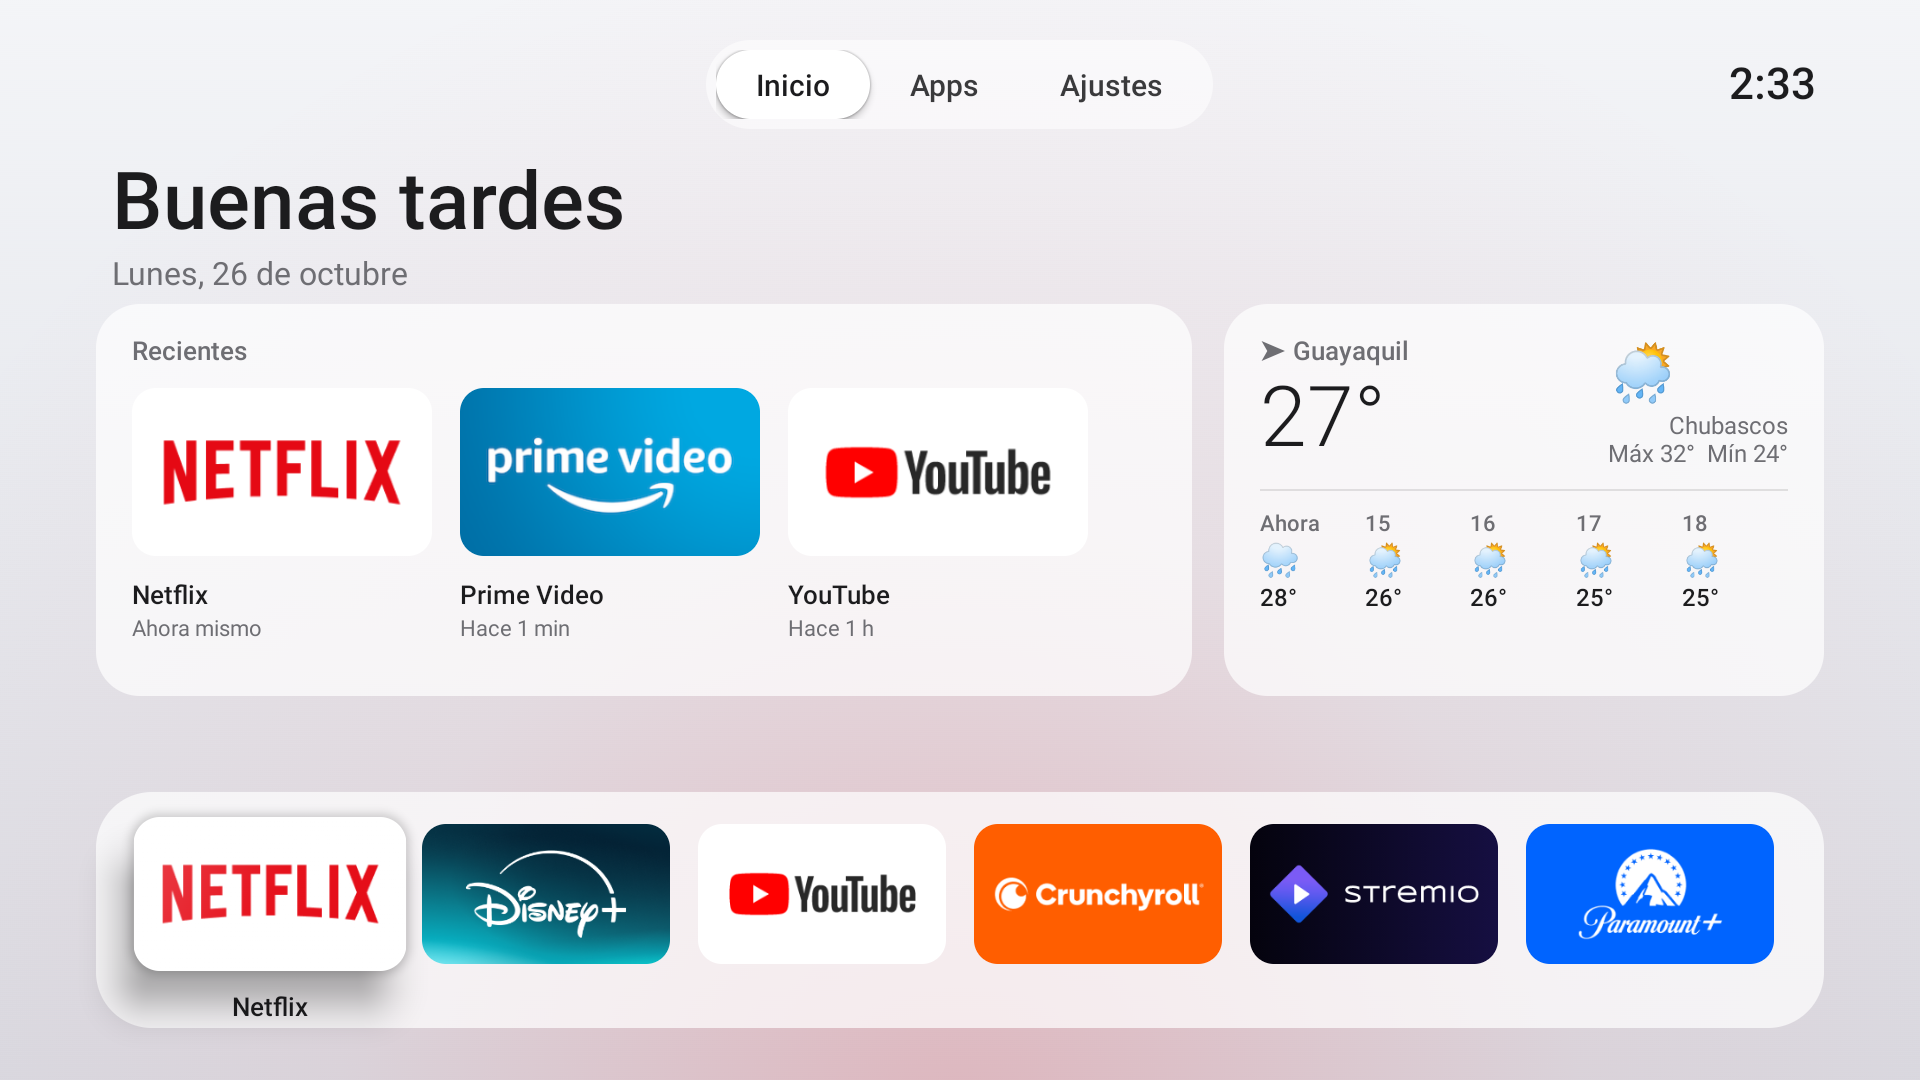
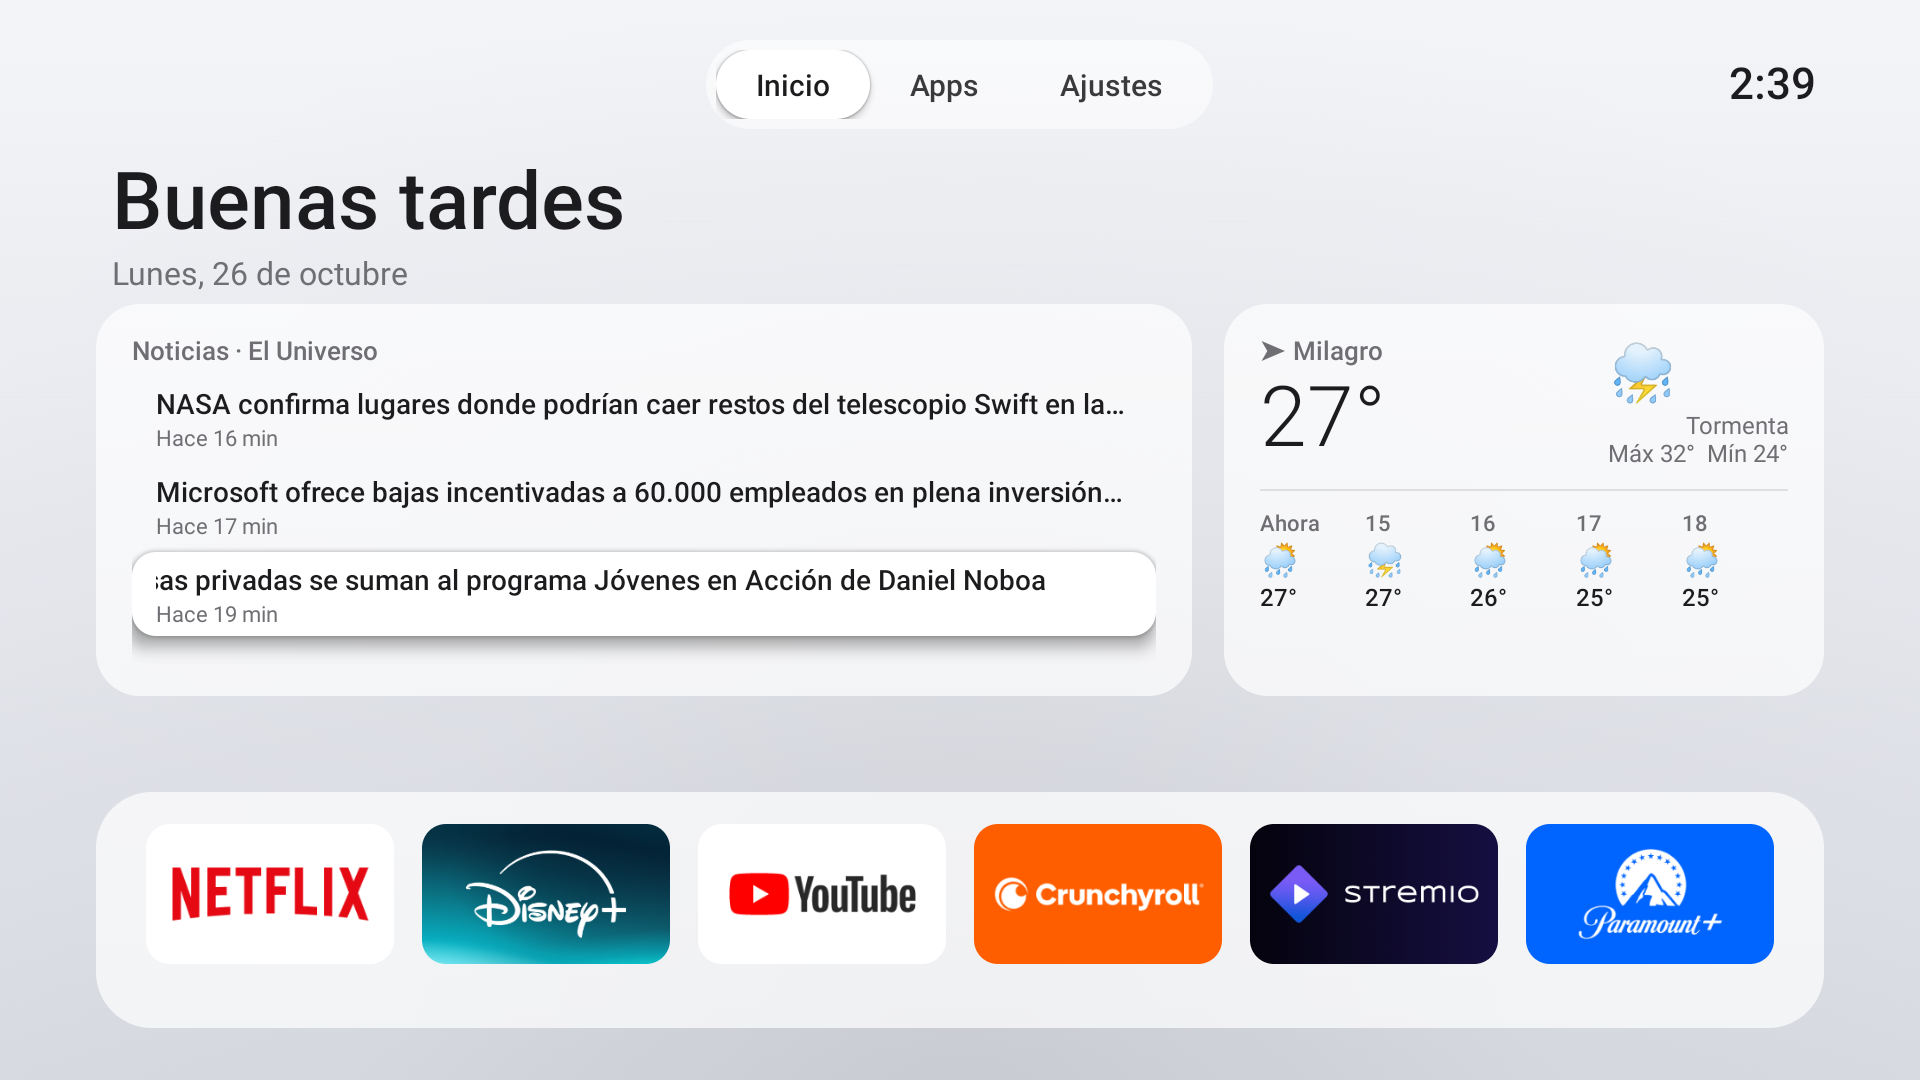
feat: tarjeta de noticias (El Universo) y clima de Milagro, v2.1
- Noticias: 3 titulares del RSS de El Universo, solo texto, lectura en streaming
  que corta la descarga; marquee con foco y OK abre la nota en Silk.
- Ajustes: elegir tarjeta de noticias o de apps recientes.
- Clima por defecto en Milagro para America/Guayaquil.

diff --git a/launcher/src/com/josue/atvhome/HomeActivity.java b/launcher/src/com/josue/atvhome/HomeActivity.java
@@ -1,4 +1,4 @@
-package com.josue.atvhome;
+package com.josue.atvhome;
 
 import android.animation.ArgbEvaluator;
 import android.animation.ValueAnimator;
@@ -104,8 +104,11 @@ public class HomeActivity extends Activity {
     private final View[] pages = new View[3];
     private int page = PAGE_HOME;
 
-    private TextView clock, greeting, date, wifiRow, themeRow, hiddenRow, recentEmpty;
-    private LinearLayout dock, recentRow, appsGrid, settingsList;
+    private TextView clock, greeting, date, wifiRow, themeRow, hiddenRow, recentEmpty, cardTitle;
+    private LinearLayout dock, recentRow, newsList, appsGrid, settingsList;
+    /** La tarjeta grande muestra noticias (por defecto) o apps recientes. */
+    private boolean newsMode;
+    private long newsAt;
     private ScrollView appsScroll;
     // Tarjeta de clima
     private TextView wCity, wIcon, wTemp, wDesc;
@@ -128,6 +131,7 @@ public class HomeActivity extends Activity {
         screenW = getResources().getDisplayMetrics().widthPixels;
         prefs = getSharedPreferences("atv", MODE_PRIVATE);
         pal = new Palette(!"dark".equals(prefs.getString("theme", "light")));
+        newsMode = !"recents".equals(prefs.getString("card", "news"));
         setContentView(buildChrome());
 
         IntentFilter pf = new IntentFilter();
@@ -163,7 +167,8 @@ public class HomeActivity extends Activity {
         updateClock();
         updateWifi();
         refreshWeather();
-        if (!all.isEmpty()) refreshRecents();
+        if (newsMode) refreshNews();
+        else if (!all.isEmpty()) refreshRecents();
         ensureHomeService();
     }
 
@@ -213,6 +218,7 @@ public class HomeActivity extends Activity {
             updateClock();
             updateWifi();
             refreshWeather();
+            if (newsMode) refreshNews();
         }
     };
 
@@ -304,18 +310,27 @@ public class HomeActivity extends Activity {
         LinearLayout recentCard = card();
         recentCard.setOrientation(LinearLayout.VERTICAL);
         recentCard.setClipChildren(false);
-        TextView rt = text(13, pal.sub, "sans-serif-medium");
-        rt.setText("Recientes");
-        recentCard.addView(rt);
+        cardTitle = text(13, pal.sub, "sans-serif-medium");
+        cardTitle.setText(newsMode ? "Noticias · " + News.SOURCE : "Recientes");
+        recentCard.addView(cardTitle);
         recentRow = new LinearLayout(this);
         recentRow.setClipChildren(false);
         recentRow.setClipToPadding(false);
         LinearLayout.LayoutParams rrl = new LinearLayout.LayoutParams(-1, -2);
         rrl.topMargin = px(10);
         recentCard.addView(recentRow, rrl);
+        newsList = new LinearLayout(this);
+        newsList.setOrientation(LinearLayout.VERTICAL);
+        newsList.setClipChildren(false);
+        newsList.setClipToPadding(false);
+        LinearLayout.LayoutParams nll = new LinearLayout.LayoutParams(-1, -2);
+        nll.topMargin = px(4);
+        recentCard.addView(newsList, nll);
         recentEmpty = text(14, pal.sub, "sans-serif");
-        recentEmpty.setText("Las apps que abras aparecerán aquí.");
+        recentEmpty.setText(newsMode ? "Cargando titulares…" : "Las apps que abras aparecerán aquí.");
         recentCard.addView(recentEmpty);
+        recentRow.setVisibility(newsMode ? View.GONE : View.VISIBLE);
+        newsList.setVisibility(newsMode ? View.VISIBLE : View.GONE);
         cards.addView(recentCard, new LinearLayout.LayoutParams(0, -1, 1f));
 
         LinearLayout weatherCard = card();
@@ -412,13 +427,17 @@ public class HomeActivity extends Activity {
             prefs.edit().putString("theme", pal.light ? "dark" : "light").apply();
             recreate();
         });
+        settingRow(newsMode ? "Tarjeta de inicio: noticias" : "Tarjeta de inicio: apps recientes", v -> {
+            prefs.edit().putString("card", newsMode ? "recents" : "news").apply();
+            recreate();
+        });
         hiddenRow = settingRow("Mostrar apps ocultas", v -> {
             prefs.edit().remove("hidden").apply();
             toast("Apps ocultas visibles otra vez");
             rebuild();
         });
         TextView about = text(13, pal.sub, "sans-serif");
-        about.setText("Inicio ATV 2.0 · github.com/Josuerti/firetv-inicio-atv");
+        about.setText("Inicio ATV 2.1 · github.com/Josuerti/firetv-inicio-atv");
         LinearLayout.LayoutParams al = new LinearLayout.LayoutParams(-2, -2);
         al.topMargin = px(18);
         settingsList.addView(about, al);
@@ -471,7 +490,8 @@ public class HomeActivity extends Activity {
 
     private View pageFirst(int p) {
         if (p == PAGE_HOME) {
-            if (recentRow.getChildCount() > 0) return recentRow.getChildAt(0).findViewWithTag(TAG_CARD);
+            if (newsMode && newsList.getChildCount() > 0) return newsList.getChildAt(0);
+            if (!newsMode && recentRow.getChildCount() > 0) return recentRow.getChildAt(0).findViewWithTag(TAG_CARD);
             return dock.getChildCount() > 0 ? dock.getChildAt(0).findViewWithTag(TAG_CARD) : null;
         }
         if (p == PAGE_APPS) {
@@ -579,7 +599,80 @@ public class HomeActivity extends Activity {
         if (target != null) target.requestFocus();
     }
 
+    private void refreshNews() {
+        long now = System.currentTimeMillis();
+        if (now - newsAt < 30 * 60 * 1000L) return;
+        newsAt = now;
+        io.execute(() -> {
+            try {
+                final List<News.Item> items = News.fetch(3);
+                ui.post(() -> showNews(items));
+            } catch (Exception e) {
+                newsAt = 0; // sin red: se reintenta en el siguiente minuto
+                ui.post(() -> {
+                    if (newsList.getChildCount() == 0) recentEmpty.setText("Sin conexión: los titulares volverán solos.");
+                });
+            }
+        });
+    }
+
+    private void showNews(List<News.Item> items) {
+        boolean hadFocus = newsList.findFocus() != null;
+        newsList.removeAllViews();
+        for (final News.Item it : items) {
+            LinearLayout row = new LinearLayout(this);
+            row.setOrientation(LinearLayout.VERTICAL);
+            row.setFocusable(true);
+            row.setPadding(px(12), px(4), px(12), px(4));
+            final TextView title = text(14, pal.text, "sans-serif-medium");
+            title.setText(it.title);
+            title.setSingleLine(true);
+            title.setEllipsize(TextUtils.TruncateAt.END);
+            title.setMarqueeRepeatLimit(-1);
+            TextView meta = text(11, pal.sub, "sans-serif");
+            meta.setText(it.time > 0 ? Recents.ago(it.time) : News.SOURCE);
+            row.addView(title);
+            row.addView(meta);
+            row.setOnFocusChangeListener((v, has) -> {
+                v.setBackground(has ? round(pal.light ? 0xFFFFFFFF : 0x33FFFFFF, px(12)) : null);
+                v.setTranslationZ(has && pal.light ? px(6) : 0);
+                // Con foco el titular completo se desplaza; sin foco vuelve a cortarse con "…".
+                title.setEllipsize(has ? TextUtils.TruncateAt.MARQUEE : TextUtils.TruncateAt.END);
+                title.setSelected(has);
+                if (has) animateGlow(0xFF8E8E93);
+            });
+            row.setOnKeyListener((v, code, ev) -> {
+                if (code == KeyEvent.KEYCODE_DPAD_UP && ev.getAction() == KeyEvent.ACTION_DOWN
+                        && newsList.indexOfChild(v) == 0) {
+                    tabs[PAGE_HOME].requestFocus();
+                    return true;
+                }
+                return false;
+            });
+            row.setOnClickListener(v -> openLink(it.link));
+            LinearLayout.LayoutParams lp = new LinearLayout.LayoutParams(-1, -2);
+            lp.bottomMargin = px(2);
+            newsList.addView(row, lp);
+        }
+        recentEmpty.setVisibility(items.isEmpty() ? View.VISIBLE : View.GONE);
+        if (hadFocus && newsList.getChildCount() > 0) newsList.getChildAt(0).requestFocus();
+    }
+
+    /** Abre la noticia en Silk (el navegador de Fire TV) o en el que haya. */
+    private void openLink(String url) {
+        if (url == null) return;
+        Intent i = new Intent(Intent.ACTION_VIEW, Uri.parse(url));
+        i.setPackage("com.amazon.cloud9");
+        try {
+            i.addFlags(Intent.FLAG_ACTIVITY_NEW_TASK);
+            startActivity(i);
+        } catch (Exception e) {
+            startSafe(new Intent(Intent.ACTION_VIEW, Uri.parse(url)));
+        }
+    }
+
     private void buildRecents() {
+        if (newsMode) return;
         recentRow.removeAllViews();
         Set<String> hidden = hidden();
         for (Recents.Item it : recents) {
@@ -674,7 +767,7 @@ public class HomeActivity extends Activity {
             }
             if (code == KeyEvent.KEYCODE_DPAD_UP && ev.getAction() == KeyEvent.ACTION_DOWN) {
                 boolean top = kind == KIND_RECENT
-                        || (kind == KIND_DOCK && recentRow.getChildCount() == 0)
+                        || (kind == KIND_DOCK && (newsMode ? newsList : recentRow).getChildCount() == 0)
                         || (kind == KIND_GRID && appsGrid.indexOfChild((View) col.getParent()) == 0);
                 if (top) {
                     tabs[page].requestFocus();

diff --git a/launcher/src/com/josue/atvhome/News.java b/launcher/src/com/josue/atvhome/News.java
@@ -1,0 +1,80 @@
+package com.josue.atvhome;
+
+import android.util.Xml;
+
+import org.xmlpull.v1.XmlPullParser;
+
+import java.io.InputStream;
+import java.net.HttpURLConnection;
+import java.net.URL;
+import java.text.SimpleDateFormat;
+import java.util.ArrayList;
+import java.util.Collections;
+import java.util.List;
+import java.util.Locale;
+
+/**
+ * Titulares de El Universo (RSS público). Solo texto: se leen las primeras noticias del
+ * feed en streaming y se corta la descarga, sin imágenes ni librerías.
+ */
+final class News {
+    static final String SOURCE = "El Universo";
+    private static final String FEED = "https://www.eluniverso.com/arc/outboundfeeds/rss/?outputType=xml";
+    private static final int SCAN = 15;
+
+    static final class Item {
+        final String title, link;
+        final long time;
+
+        Item(String title, String link, long time) {
+            this.title = title;
+            this.link = link;
+            this.time = time;
+        }
+    }
+
+    static List<Item> fetch(int max) throws Exception {
+        HttpURLConnection http = (HttpURLConnection) new URL(FEED).openConnection();
+        http.setConnectTimeout(8000);
+        http.setReadTimeout(8000);
+        http.setRequestProperty("User-Agent", "InicioATV");
+        List<Item> items = new ArrayList<>();
+        SimpleDateFormat rfc = new SimpleDateFormat("EEE, dd MMM yyyy HH:mm:ss Z", Locale.US);
+        try (InputStream in = http.getInputStream()) {
+            XmlPullParser p = Xml.newPullParser();
+            p.setInput(in, "UTF-8");
+            String title = null, link = null, date = null, tag = null;
+            boolean inItem = false;
+            for (int ev = p.getEventType(); ev != XmlPullParser.END_DOCUMENT && items.size() < SCAN; ev = p.next()) {
+                if (ev == XmlPullParser.START_TAG) {
+                    tag = p.getName();
+                    if ("item".equals(tag)) {
+                        inItem = true;
+                        title = link = date = null;
+                    }
+                } else if (ev == XmlPullParser.TEXT && inItem && tag != null) {
+                    String t = p.getText().trim();
+                    if (t.isEmpty()) continue;
+                    if ("title".equals(tag)) title = t;
+                    else if ("link".equals(tag)) link = t;
+                    else if ("pubDate".equals(tag)) date = t;
+                } else if (ev == XmlPullParser.END_TAG) {
+                    if ("item".equals(p.getName()) && title != null) {
+                        long time = 0;
+                        try {
+                            time = rfc.parse(date).getTime();
+                        } catch (Exception ignored) {
+                        }
+                        items.add(new Item(title, link, time));
+                        inItem = false;
+                    }
+                    tag = null;
+                }
+            }
+        } finally {
+            http.disconnect(); // cortamos aquí: no hace falta bajar el resto del feed
+        }
+        Collections.sort(items, (a, b) -> Long.compare(b.time, a.time));
+        return items.size() > max ? new ArrayList<>(items.subList(0, max)) : items;
+    }
+}

diff --git a/launcher/src/com/josue/atvhome/Weather.java b/launcher/src/com/josue/atvhome/Weather.java
@@ -33,7 +33,7 @@ final class Weather {
         this.day = day;
     }
 
-    /** {ciudad, latitud, longitud} para las zonas horarias más probables; si no, Guayaquil. */
+    /** {ciudad, latitud, longitud} para las zonas horarias más probables; si no, Milagro (Ecuador). */
     private static String[] cityFor(String tz) {
         switch (tz) {
             case "America/Bogota": return new String[]{"Bogotá", "4.71", "-74.07"};
@@ -43,7 +43,7 @@ final class Weather {
             case "America/Argentina/Buenos_Aires": return new String[]{"Buenos Aires", "-34.60", "-58.38"};
             case "America/New_York": return new String[]{"Nueva York", "40.71", "-74.01"};
             case "Europe/Madrid": return new String[]{"Madrid", "40.42", "-3.70"};
-            default: return new String[]{"Guayaquil", "-2.19", "-79.89"};
+            default: return new String[]{"Milagro", "-2.13", "-79.59"}; // America/Guayaquil y resto
         }
     }
 

diff --git a/README.md b/README.md
@@ -85,7 +85,7 @@ adb shell pm grant com.josue.atvhome android.permission.WRITE_SECURE_SETTINGS   
 
 <table>
 <tr>
-<td width="50%"><img src="docs/inicio.png" alt="Inicio"><br><i>Inicio: saludo, apps recientes, clima por horas y dock.</i></td>
+<td width="50%"><img src="docs/inicio.png" alt="Inicio"><br><i>Inicio: saludo, noticias, clima por horas de Milagro y dock.</i></td>
 <td width="50%"><img src="docs/apps.png" alt="Apps"><br><i>Pestaña Apps: todas tus apps. La que tiene el foco crece y muestra su nombre.</i></td>
 </tr>
 <tr>
@@ -175,11 +175,12 @@ Todo se hace con `pm disable-user --user 0`: **nada se borra** y se reactiva con
 |---|---|
 | Pestañas | **Inicio**, **Apps** y **Ajustes** arriba, como en tvOS. Al enfocar una pestaña cambia la página |
 | Saludo y reloj | "Buenos días / tardes / noches", la fecha en español y la hora arriba a la derecha |
-| 🕘 Recientes | Tarjeta con las 3 últimas apps que abriste y hace cuánto ("Hace 5 min"). Necesita el permiso de acceso al uso (`appops`) |
+| 📰 Noticias | Tarjeta con los 3 últimos titulares de [El Universo](https://www.eluniverso.com) (RSS, solo texto, se lee en streaming y se corta). Con foco el titular se desplaza; OK lo abre en Silk. Se actualiza cada 30 minutos |
+| 🕘 Recientes | Alternativa a Noticias (en Ajustes): las 3 últimas apps que abriste y hace cuánto. Necesita el permiso de acceso al uso (`appops`) |
 | 🌤 Clima | Tarjeta con temperatura, estado, máxima/mínima y las próximas 4 horas de la ciudad de tu zona horaria, con [Open-Meteo](https://open-meteo.com) (sin cuenta ni ubicación). Se actualiza cada 30 minutos |
 | Dock | Hasta 6 apps. Por defecto: Netflix, Disney+, YouTube, Crunchyroll, Stremio y Paramount+ |
 | Apps | Todas tus apps en orden alfabético, en cuadrícula de 6 |
-| Ajustes | Wi-Fi (con el nombre de la red), Ajustes de Fire TV, inicio de Amazon, **tema claro u oscuro** y apps ocultas |
+| Ajustes | Wi-Fi (con el nombre de la red), Ajustes de Fire TV, inicio de Amazon, **tema claro u oscuro**, **tarjeta de noticias o recientes** y apps ocultas |
 | Resplandor | Saca el color de cada logo y tiñe el fondo con una transición suave |
 | Limpieza | Oculta las herramientas internas de Fire OS que salen con icono genérico |
 | Se repara solo | Si Fire OS apaga el servicio del botón Inicio, Inicio ATV lo vuelve a encender al abrirse (con el permiso `WRITE_SECURE_SETTINGS`) |
@@ -283,7 +284,7 @@ Lo probamos. La lista del sistema (`content://android.media.tv/watch_next_progra
 
 <details><summary><b>¿El clima es de mi ciudad?</b></summary>
 
-Usa la ciudad principal de tu zona horaria (`America/Guayaquil` → Guayaquil, `America/Bogota` → Bogotá, etc.). Para otra ciudad, edita `cityFor` en `Weather.java`.
+Usa una ciudad según tu zona horaria: `America/Guayaquil` → **Milagro**, `America/Bogota` → Bogotá, etc. Para otra ciudad, edita `cityFor` en `Weather.java`.
 </details>
 
 <details><summary><b>¿Puedo cambiar las apps del dock?</b></summary>
